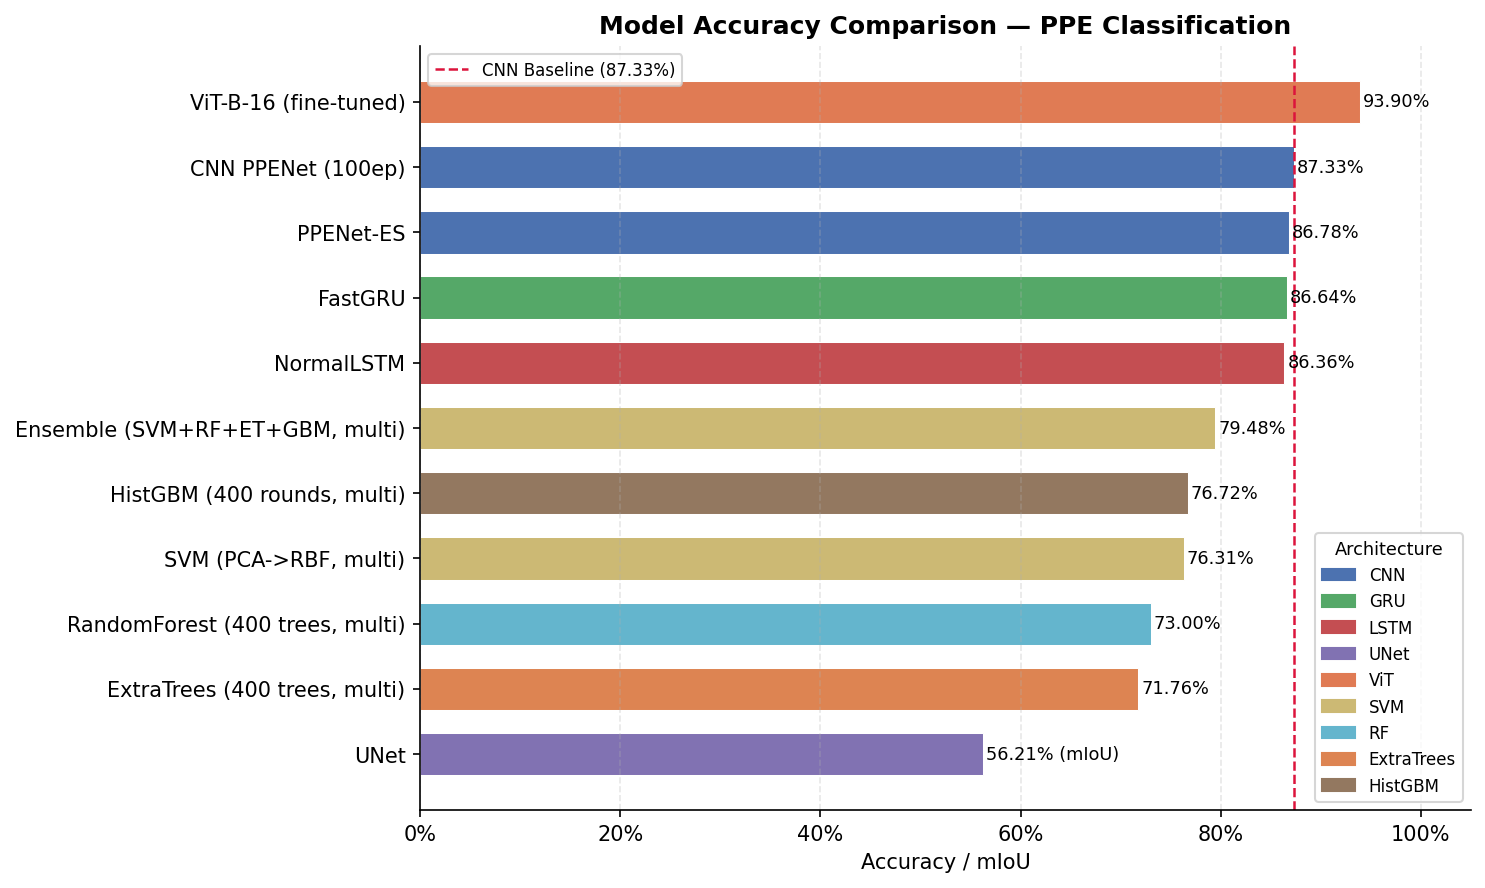
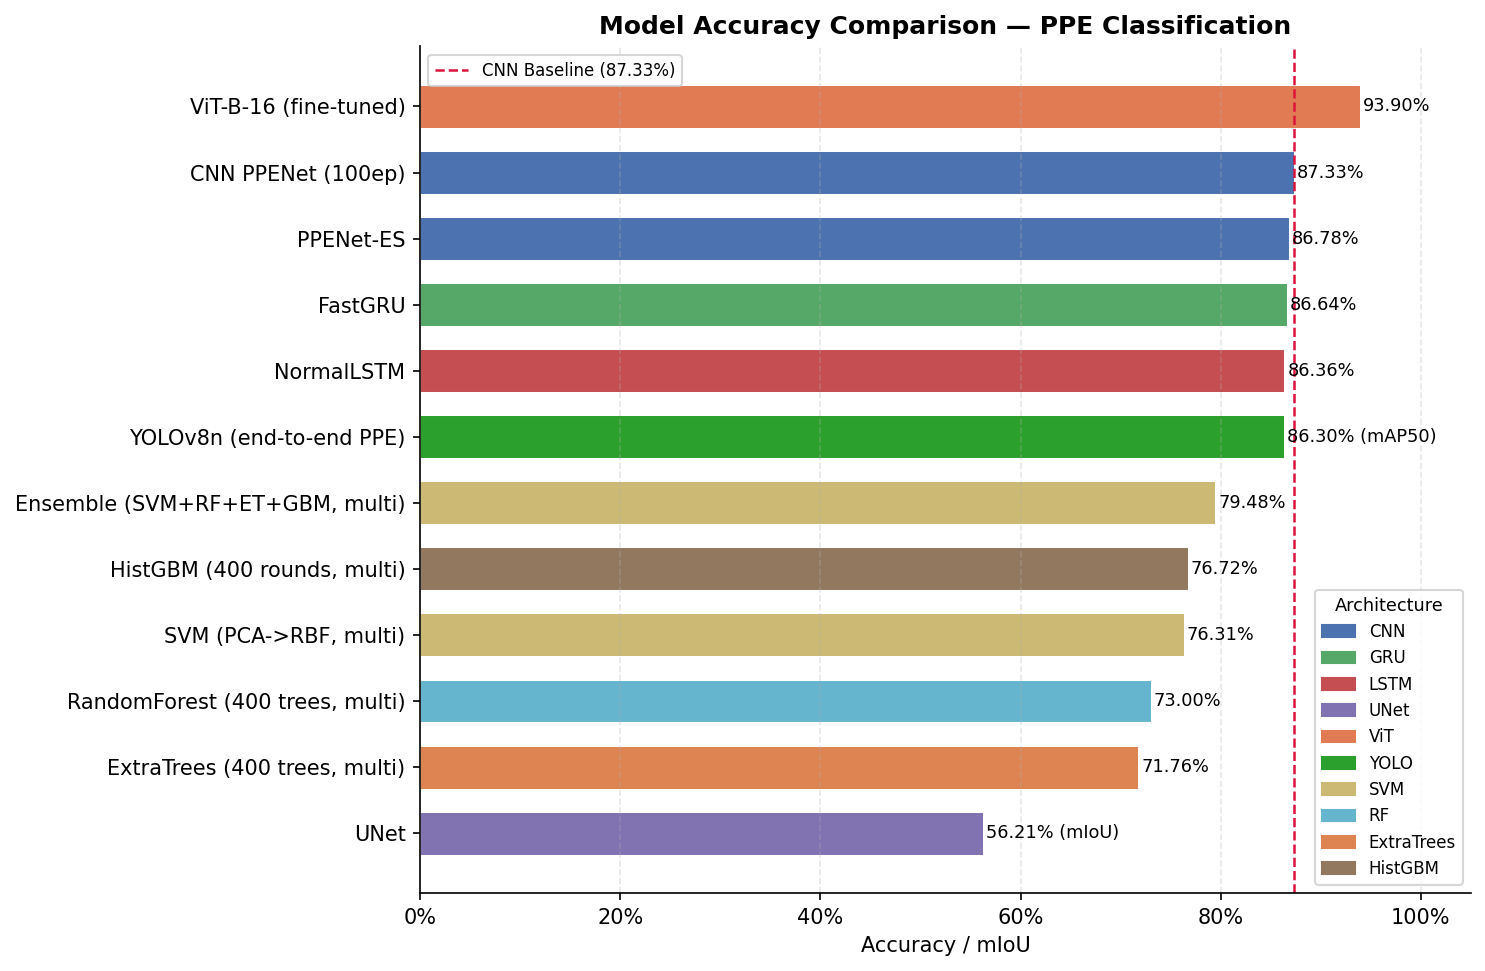
feat: YOLO end-to-end PPE detection training (mAP50=0.863)
- Fix path resolution in setup_yolo_ppe.py for D:/Claude/datasets layout
- Train YOLOv8n on 2609 images (2088 train / 521 val), 30 epochs, 5 classes
- Results: mAP50=0.863, mAP50-95=0.581, Precision=0.87, Recall=0.78
  - helmet mAP50=0.926, safety_vest=0.922, partial_ppe=0.877, no_ppe=0.852, full_ppe=0.738
- Save best.pt + evaluation plots to results/models/
- Add YOLO loader + detection task type to experiment comparison (16 models total)

Changed region(s): [[0.0, 0.0, 0.9603, 0.8818], [0.2788, 0.5777, 0.9912, 1.0]]

diff --git a/src/ppe_experiment_comparison.py b/src/ppe_experiment_comparison.py
@@ -48,6 +48,7 @@ PARAM_COUNTS = {
     'LSTM':       800,
     'UNet':      7700,
     'ViT':       86000,
+    'YOLO':      3006,
     'SVM':          0,
     'RF':           0,
     'ExtraTrees':   0,
@@ -62,6 +63,7 @@ ARCH_COLOURS = {
     'LSTM':       '#C44E52',
     'UNet':       '#8172B2',
     'ViT':        '#E07B54',
+    'YOLO':       '#2CA02C',
     'SVM':        '#CCB974',
     'RF':         '#64B5CD',
     'ExtraTrees': '#DD8452',
@@ -264,6 +266,29 @@ def load_and_harmonise(out_dir: str) -> pd.DataFrame:
     except Exception as exc:
         print(f"  WARNING: could not load masked_cnn_results.csv -- {exc}")
 
+    # ------------------------------------------------------------------
+    # 7. yolo_e2e_results.csv  (YOLOv8n end-to-end detection)
+    # ------------------------------------------------------------------
+    path = os.path.join(out_dir, "yolo_e2e_results.csv")
+    try:
+        df = pd.read_csv(path)
+        for _, r in df.iterrows():
+            rows.append({
+                'Model':        str(r['Model']),
+                'Task':         'detection',
+                'Accuracy':     float(r['mAP50']) if pd.notna(r.get('mAP50')) else np.nan,
+                'mIoU':         np.nan,
+                'Macro_F1':     np.nan,
+                'Weighted_F1':  np.nan,
+                'Architecture': 'YOLO',
+                'Params_K':     PARAM_COUNTS['YOLO'],
+                'Train_Time_s': float(r['Train_Time(s)']) if pd.notna(r.get('Train_Time(s)')) else np.nan,
+                'Notes':        str(r.get('Notes', '')),
+            })
+        print(f"  Loaded {len(df)} rows from yolo_e2e_results.csv")
+    except Exception as exc:
+        print(f"  WARNING: could not load yolo_e2e_results.csv -- {exc}")
+
     if not rows:
         return pd.DataFrame()
 
@@ -278,11 +303,18 @@ def load_and_harmonise(out_dir: str) -> pd.DataFrame:
 # Plot 1 — accuracy bar chart
 # ---------------------------------------------------------------------------
 def plot_accuracy_comparison(df: pd.DataFrame, out_path: str) -> None:
-    """Horizontal bar chart of model accuracy (multi-class + UNet mIoU)."""
+    """Horizontal bar chart of model accuracy (multi-class, detection mAP50, UNet mIoU)."""
     # Classification rows (multi task only)
     cls_df = df[df['Task'] == 'multi'].copy()
     cls_df['_metric'] = cls_df['Accuracy']
     cls_df['_label']  = cls_df['Accuracy'].map(lambda v: f"{v*100:.2f}%")
+
+    # Detection rows (YOLO) — use mAP50 stored in Accuracy column
+    det_df = df[df['Task'] == 'detection'].copy()
+    det_df['_metric'] = det_df['Accuracy']
+    det_df['_label']  = det_df['Accuracy'].map(
+        lambda v: f"{v*100:.2f}% (mAP50)" if pd.notna(v) else "N/A"
+    )
 
     # Segmentation rows (UNet) — use mIoU
     seg_df = df[df['Task'] == 'segmentation'].copy()
@@ -291,7 +323,7 @@ def plot_accuracy_comparison(df: pd.DataFrame, out_path: str) -> None:
         lambda v: f"{v*100:.2f}% (mIoU)" if pd.notna(v) else "N/A"
     )
 
-    plot_df = pd.concat([cls_df, seg_df], ignore_index=True)
+    plot_df = pd.concat([cls_df, det_df, seg_df], ignore_index=True)
     plot_df = plot_df.dropna(subset=['_metric'])
     plot_df = plot_df.sort_values('_metric', ascending=True)
 

diff --git a/src/setup_yolo_ppe.py b/src/setup_yolo_ppe.py
@@ -10,12 +10,16 @@ import random
 import xml.etree.ElementTree as ET
 from pathlib import Path
 
-# Paths
-BASE = os.path.dirname(os.path.dirname(os.path.dirname(os.path.abspath(__file__))))
-if os.path.exists("D:/datasets/jomarkow"):
-    DATASETS = "D:/datasets"
+# Paths — check known locations in priority order
+for _candidate in ["D:/datasets", "D:/Claude/datasets",
+                    os.path.join(os.path.dirname(os.path.dirname(
+                        os.path.dirname(os.path.abspath(__file__)))), "datasets")]:
+    if os.path.exists(os.path.join(_candidate, "jomarkow")):
+        DATASETS = _candidate
+        break
 else:
-    DATASETS = os.path.join(BASE, "datasets")
+    DATASETS = os.path.join(os.path.dirname(os.path.dirname(
+        os.path.dirname(os.path.abspath(__file__)))), "datasets")
 
 MINHNKB_IMG = os.path.join(DATASETS, "helmet-safety-vest-detection-master/train-images-data")
 MINHNKB_ANN = os.path.join(DATASETS, "helmet-safety-vest-detection-master/train-images-annotations-new")